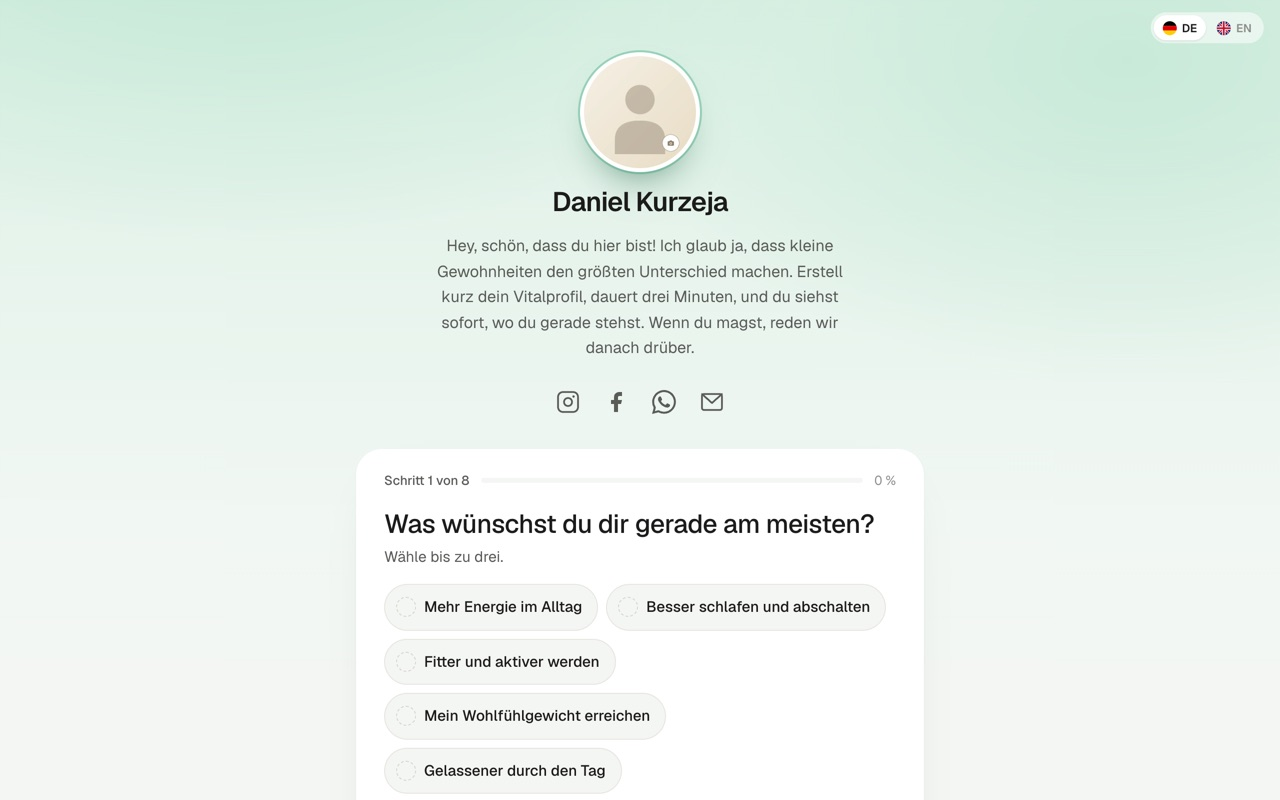
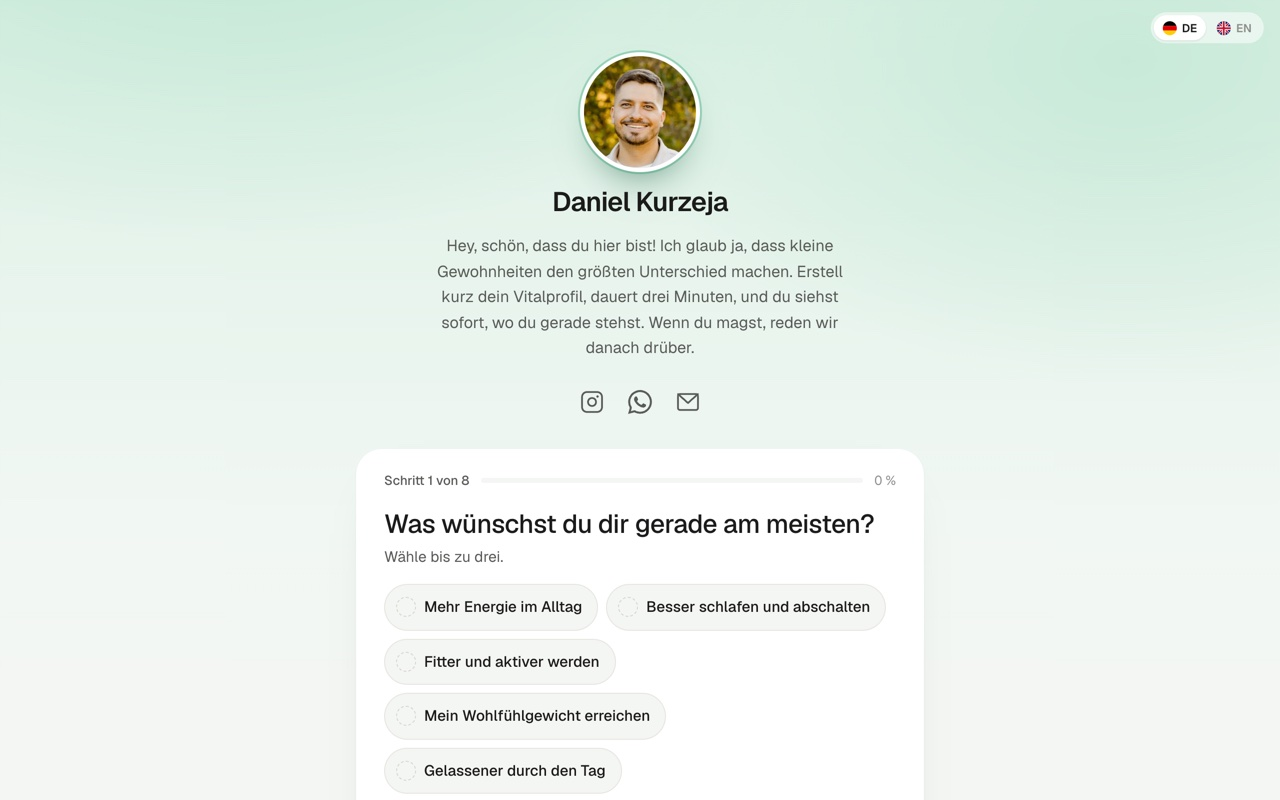
feat(vitalprofil): Thumbnail aus der Live-Demo, Rollout-Stand im Readme

Changed region(s): [[0.4375, 0.0625, 0.5625, 0.2188], [0.4375, 0.4688, 0.5625, 0.5312]]

diff --git a/templates/vitalprofil/template-readme.md b/templates/vitalprofil/template-readme.md
@@ -2,7 +2,7 @@
 
 Profilseite mit eingebautem Vitalprofil für PM-International-Teampartner. Gleiche 20 Verhaltens-Aussagen und Rechtsleitplanken wie `templates/vitalcheck/` (siehe dort und `docs/konzept-vitalcheck.html`), aber als **Profilseite wie die Linkseite** (`templates/lnko-bio/`) mit dem Check direkt darunter. Produktname auf der Seite: **Vitalprofil** (nicht mehr „Vitalcheck“). Früherer Ordnername: `templates/vitalcheck-b/`.
 
-Template-ID in der DB: `8a3ef41a-78fa-419d-937d-ccc7b552da1a` (Status `coming_soon`, `is_test = true`, bis Domain und R2 stehen).
+Template-ID in der DB: `8a3ef41a-78fa-419d-937d-ccc7b552da1a` (Status `published`, `is_test = true` bis zur Freigabe).
 
 ## Aufbau
 
@@ -37,26 +37,23 @@ Sechs Farbthemen `gruen` (Standard), `orange`, `rot`, `blau`, `violett`, `nacht`
 
 Problem: Ein Link aus einer Gewohnheits-Auswertung auf eine Produktseite kann im Gesamteindruck als „das Produkt hilft bei den geprüften Bereichen“ gelesen werden (HCVO Art. 10, UWG § 5, Linkhaftung). Lösung: Auswertung nennt nie ein Produkt; Links sind ein Profil-Element in eigener Karte mit festem Hinweissatz, erst nach der Beratungs-Karte; keine Logik nach Score/Typ; nur veröffentlichte eigene Seiten; kommerzielle Absicht durch Kennzeichnung erkennbar. Restrisiko niedrig bis mittel.
 
-## Rollout (nach `docs/new-template-checklist.md`)
+## Rollout-Stand (07.10.2026)
 
-Erledigt (07.10.2026):
-- [x] Template, Schema v2, Readme im Repo (`templates/vitalprofil/`)
-- [x] Editor: `site_picker_only` (deployt)
-- [x] Worker: `LEGAL_DESIGNS['vitalprofil.net']`, Theme-Akzente, Datenschutz-Abschnitt (Code im Repo; Worker-Deploy siehe unten)
-- [x] DB-Row `8a3ef41a-…` aktualisiert: Titel „Dein Vitalprofil“, slug `vitalprofil`, domain `vitalprofil.net`, Schema, Tags, `is_test = true`, Status `coming_soon`
-- [x] `form_schemas`-Row `kontakt` („Beratungsanfrage Vitalprofil“) angelegt
-- [x] Preview-Bild `public/previews/vitalprofil.jpg`
+Alles eingerichtet, Template läuft live, aber **nur für den Admin sichtbar**:
 
-Offen (braucht die Domain):
-1. **Domain** `vitalprofil.net` bei Cloudflare registrieren (Account `6d5e22b7…`), Zone-ID notieren.
-2. CF Dashboard: Proxied Wildcard-A `*.vitalprofil.net → 192.0.2.1`.
-3. `cloudflare-worker/wrangler.toml`: den vorbereiteten `[[routes]]`-Block für `*.vitalprofil.net/*` aktivieren und die Zone-ID eintragen.
-4. Worker vom App-Server deployen:
-   `ssh -i ~/.ssh/finestsites_hetzner root@188.245.35.52 "cd /var/www/finestsites && git pull origin main && cd cloudflare-worker && CLOUDFLARE_API_TOKEN=… npx wrangler deploy --config wrangler.toml"`
-5. R2 (mit `--remote`!): `templates/8a3ef41a-78fa-419d-937d-ccc7b552da1a/index.html` und `assets/fs-logo.svg` hochladen. `assets/hero.jpg` wird nicht mehr gebraucht.
-6. Health-Check `curl https://test.vitalprofil.net/.finestsites/health` → 200; `/impressum` und `/datenschutz` auf einer Testseite prüfen (Abschnitt „Vitalprofil“ sichtbar).
-7. Testseite als Test-Account anlegen (Solo und Duo), Formular absenden, Mail an `email_benachrichtigung` prüfen (Betreff „Neue Anfrage: Beratungsanfrage Vitalprofil“), Story-Export auf dem Handy.
-8. Freigabe: `status = 'published'`, `is_test = false`. Marketing-Seite `/vorlagen/vitalprofil` (detail_content) kann danach gefüllt werden.
+- Zone `vitalprofil.net` (ID `649f7422ce4f0d12dc89228530b39997`, Account `bc6cb133…`), Wildcard-A `*` und Apex `@` → 192.0.2.1 proxied
+- Worker-Route `*.vitalprofil.net/*` aktiv, Worker deployt (Legal-Design, Datenschutz-Abschnitt „Vitalprofil“)
+- R2: `templates/8a3ef41a-78fa-419d-937d-ccc7b552da1a/index.html` + `assets/fs-logo.svg` (`--remote`)
+- DB: `status = 'published'`, **`is_test = true`** → auf Startseite und `/vorlagen` unsichtbar, im Dashboard nur für Nutzer mit `template_access`-Eintrag (aktuell: Admin `demo`)
+- Demo-Seite: `https://demo.vitalprofil.net` (Site `f838a210-…`, Daten aus dem Admin-Profil, Farbthema grün, Links auf demo.lnko.me und demo.wellpreneur.io)
+- Thumbnail `public/previews/vitalprofil.jpg` = Screenshot der Live-Demo (1280×800)
+- `/impressum` und `/datenschutz` auf der Demo geprüft (200, Vitalprofil-Abschnitt vorhanden)
+
+**Freigabe für alle Nutzer** (ein SQL, danach erscheint die Vorlage automatisch als Premium auf der Startseite und unter `/vorlagen`, Badge „NEU“, Sortierung 40):
+```sql
+UPDATE templates SET is_test = false, updated_at = now() WHERE id = '8a3ef41a-78fa-419d-937d-ccc7b552da1a';
+```
+Vorher noch offen: Formular-Testsendung auf der Demo (Mail an info@daniel-kurzeja.de), Story-Export am Handy, Duo-Testseite. Nach einem Template-Update in R2: KV-Purge für `demo.vitalprofil.net` (`POST /.finestsites/kv {"action":"purge"}` mit `Authorization: Bearer WORKER_SECRET`).
 
 ## Lokale Vorschau
 
